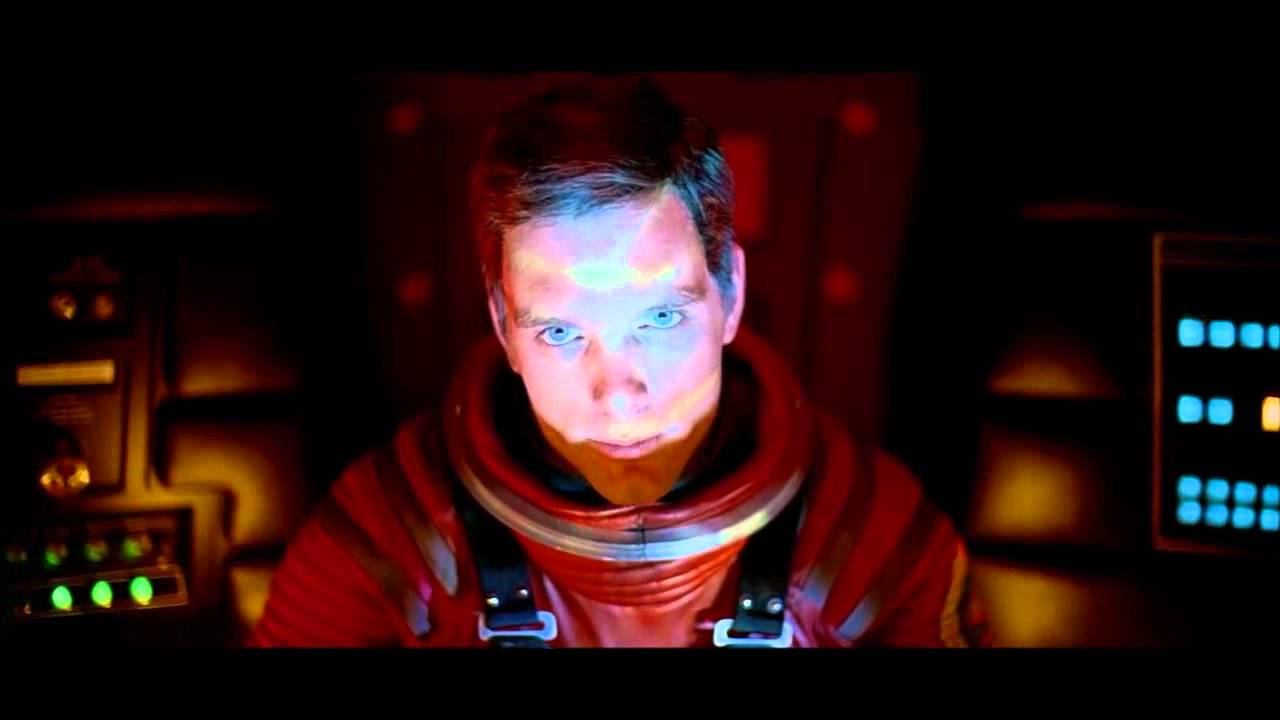
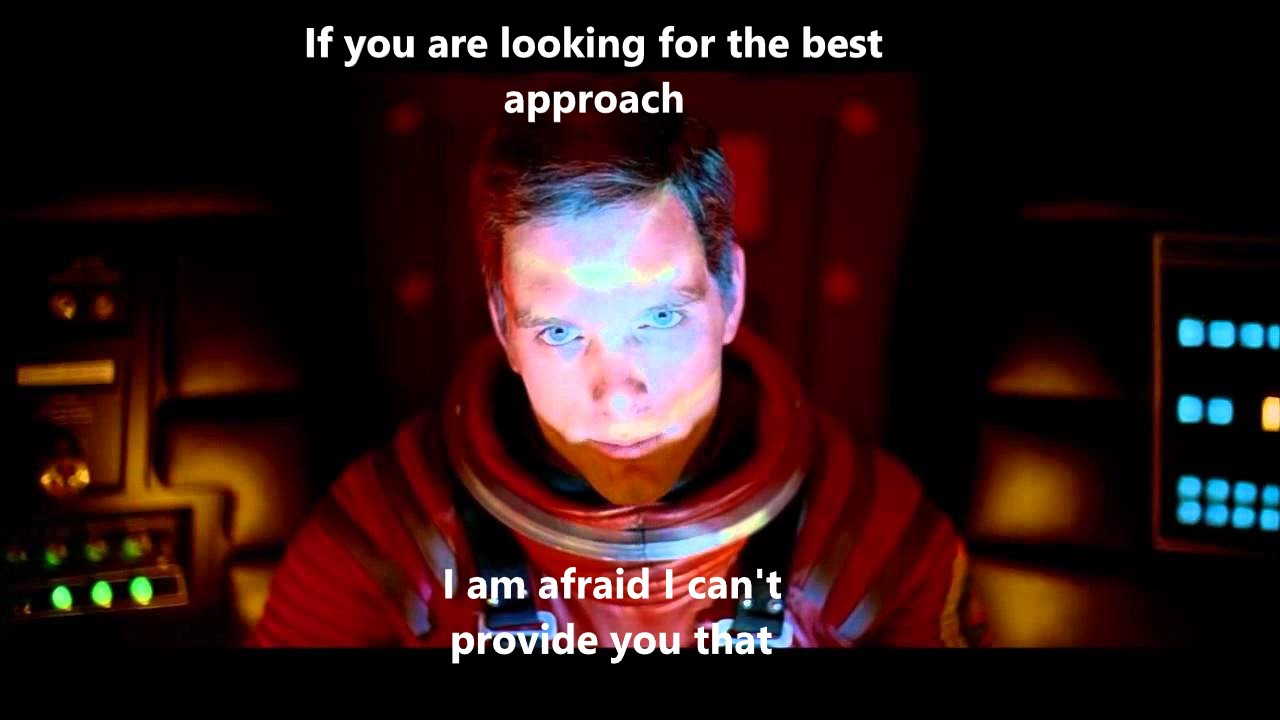
Update documentation

Changed region(s): [[0.3438, 0.7944, 0.625, 0.9167], [0.2188, 0.0306, 0.6875, 0.0917], [0.375, 0.1222, 0.5312, 0.1833]]

diff --git a/searchindex.js b/searchindex.js
@@ -1,1 +1,1 @@
-Search.setIndex({docnames:["book/book","book/setup","book/steps","content","intro","markdown","markdown-notebooks","notebooks","package/overview","package/setup"],envversion:{"sphinx.domains.c":2,"sphinx.domains.changeset":1,"sphinx.domains.citation":1,"sphinx.domains.cpp":4,"sphinx.domains.index":1,"sphinx.domains.javascript":2,"sphinx.domains.math":2,"sphinx.domains.python":3,"sphinx.domains.rst":2,"sphinx.domains.std":2,"sphinx.ext.intersphinx":1,"sphinxcontrib.bibtex":9,sphinx:56},filenames:["book/book.rst","book/setup.rst","book/steps.rst","content.md","intro.rst","markdown.md","markdown-notebooks.md","notebooks.ipynb","package/overview.rst","package/setup.rst"],objects:{},objnames:{},objtypes:{},terms:{"0":7,"1":[7,8],"10":7,"100":7,"19680801":7,"2":[6,7,8],"2014":5,"3":[7,8],"4":[6,7],"5":7,"case":1,"class":8,"default":[1,6,8],"do":[3,5,7],"function":5,"import":[7,8],"public":8,"return":8,"short":3,"true":8,"while":4,A:8,As:7,But:7,For:[1,5,7],If:[6,8],In:[1,5,7],It:[1,4,5],No:7,Or:8,That:6,The:[1,5,6,8],There:[3,7,8],To:[1,8],With:6,about:[4,5,6,7],accept:5,add_:7,afraid:4,align:7,all:[4,5,6],allow:5,also:[1,4,5,6,7,8],alwai:8,am:4,an:[1,4,5],ani:6,answer:1,apart:8,approach:4,ar:[3,4,5,6,8],arg:8,argument:8,arrai:7,assign:8,associ:8,auditori:5,audreyr:8,australia:5,avail:8,ax:7,base:6,bash:8,been:4,begin:7,being:5,best:4,bib:5,bibliographi:5,bibtex:5,block:[6,8],book:[2,4,5,6,7],both:5,box:5,brian:5,brisban:5,build:5,built:6,call:[5,7],callback:8,can:[1,4,5,6,7,8],case_sensit:8,categori:8,cell:7,certain:8,challeng:4,chang:1,channel:1,check:7,choic:8,christoph:5,cite:5,claim:4,click:[4,8],clickyaml:8,clone:8,cm:7,cmap:7,code:[5,6],cognit:5,cold:7,color:7,com:8,command:[1,4,6],command_custom:8,command_default:8,commonmark:5,complex:8,complexcommand:8,conda:2,confer:5,content:[5,6],convert:6,cookiecutt:[1,8],coolwarm:7,copi:8,cortex:5,cover:[3,4],creat:[4,7,8],cstm_clbk:8,curl:8,custom:8,custom_lin:7,cycler:7,d:6,data:[7,8],de:5,decid:1,defin:[6,8],depend:[1,5],detail:6,dev:4,develop:[1,4],differ:5,direct:6,displai:6,document:[1,5,6,7,8],dollar:7,don:8,download:8,dure:4,e:8,each:[4,8],ecosystem:5,effort:4,either:8,email:8,emb:7,end:7,env:1,environ:4,envvar:8,escap:7,etc:7,everi:4,evid:5,exampl:[5,7,8],execut:6,explicit:1,extens:5,f:1,face:4,fals:8,few:3,fig:7,figsiz:7,file:[4,6],fix:7,flavor:5,follow:[1,5,6],forg:1,free:8,from:[1,7],frontier:5,get:[5,6],get_command:8,ghp:1,git:8,github:8,guid:[7,8],ha:[4,8],have:[6,8],hdhpk14:5,heer:5,help:[5,8],henc:1,here:[5,7],holdgraf:5,holdgraf_evidence_2014:5,home:8,hot:7,hous:8,how:[3,6],html:7,http:8,human:5,i:[1,4],id:8,ii:7,imag:7,import2:1,includ:[1,6,7],inform:[1,6,7],init:6,initi:0,inlin:5,input:[5,8],insert:5,instal:[1,2],instead:[1,4],instruct:[1,6],interact:7,intern:5,io:8,ion:7,ipynb:5,journei:4,jupyt:[1,2,5,6,7],jupyterbook:5,jupytext:6,just:5,keep:7,kernel:6,kind:5,knight:5,know:8,kwarg:8,la_:7,lambda:8,languag:5,last:7,legend:7,let:[1,6],licens:8,like:[4,5,6],line2d:7,line:[5,6,7],link:8,linspac:7,list:[1,8],ll:5,logspac:7,look:4,lot:[5,7],lw:7,mail:8,make:[1,7],makefil:2,mani:[3,5,6],manual:1,markdownfil:6,markedli:5,markup:5,master:8,math:7,matplotlib:7,mbox:7,md:[5,6],mean:7,medium:7,mention:1,method:8,mit:8,modul:[7,8],modulenotfounderror:7,more:[1,6,7],moreov:5,most:[5,7,8],multipl:8,must:5,my_email:8,mynewbook:1,n:[5,7],name:[1,7,8],need:[1,6,8],neurosci:5,note:[5,8],notebook:5,novic:4,np:7,numpi:7,obj:8,off:[5,6],ojl:8,onc:8,one:5,opt:8,option:8,org:5,other:6,out:[4,7,8],output:6,overview:5,packag:[1,4,8],page:[5,6],paint:4,param:8,param_decl:8,paramet:8,parse_yaml:8,parsed_yaml:8,paslei:5,pass:8,path:[6,8],path_to_yaml:8,pictur:4,pip:[1,8],plot:7,plt:7,post:7,power:5,predict:5,prefer:8,prefix:1,presenc:6,print:[6,8],process:8,project:[4,8],prompt:1,prop_cycl:7,properli:5,provid:4,prune:1,publish:4,purpos:5,py:8,pypackag:8,pypi:4,pyplot:7,python:8,ramsai:5,randn:7,random:7,rang:7,rcparam:7,read:[4,8],readthedoc:8,recent:[7,8],refer:[1,5,8],regular:5,render:5,repo:8,repositori:8,repres:8,reproduc:7,requir:1,respect:1,rest:6,robert:5,rule:8,run:[1,6,8],s:[4,5,6,7],same:5,sampl:7,script:8,section:3,see:[5,6,7],seed:7,serv:5,set:4,setup:[0,2,8],should:6,show:[5,6],sign:7,similar:5,simpl:5,simplecommand:8,slight:5,small:5,so:[1,3,4,6],softwar:8,solut:4,some:[5,7],span:5,special:5,specif:[1,5],specifi:8,sphinx:5,stand:5,start:[5,6],starter:5,state:7,step:[1,4],store:5,structur:[1,5,8],subplot:7,support:6,suppos:1,sure:7,syntax:5,t:[4,5,7,8],tag:8,take:8,talk:4,tarbal:8,templat:8,termin:[1,8],test:4,tex:7,text:[5,6],thei:5,thi:[1,3,4,5,6,7,8],thing:6,those:5,three:8,through:8,tip:3,tool:5,top:6,topic:4,touch:4,traceback:7,treat:6,two:[5,6,8],type:8,ultim:4,under:1,understand:6,unit:4,up:4,updat:1,upon:4,us:[1,5,6,8],user:8,vandyg:8,variat:5,via:1,wa:[1,8],wai:[3,4,8],want:[7,8],well:7,wendi:5,went:4,when:[5,6],wherea:5,whether:5,which:6,work:[4,7],write:[3,5,6],written:[5,6],yaml:4,yaml_data:8,yml:1,you:[4,5,6,7,8],your:[5,6,7,8]},titles:["Creating this book","Setting up the book","Steps","Content in Jupyter Book","clickYaml: A Python Odyssey","Markdown Files","Notebooks with MyST Markdown","Content with notebooks","Overview","&lt;no title&gt;"],titleterms:{A:4,add:6,all:8,an:6,block:7,book:[0,1,3],cell:6,citat:5,clickyaml:4,code:7,command:8,conda:1,content:[3,7],creat:[0,1,6],credit:8,dictionari:8,direct:5,directori:1,environ:1,exampl:6,file:[1,5,8],from:8,get:8,instal:8,jupyt:3,learn:5,markdown:[5,6,7],metadata:6,more:5,myst:[5,6,7],notebook:[6,7],object:8,odyssei:4,output:7,overview:8,project:1,python:4,quickli:6,releas:8,role:5,root:1,sampl:5,set:1,sourc:8,specif:8,stabl:8,step:2,thi:0,up:1,usag:8,what:5,yaml:[1,6,8]}})
+Search.setIndex({docnames:["book/book","book/setup","book/steps","content","intro","markdown","markdown-notebooks","notebooks","package/overview","package/setup"],envversion:{"sphinx.domains.c":2,"sphinx.domains.changeset":1,"sphinx.domains.citation":1,"sphinx.domains.cpp":4,"sphinx.domains.index":1,"sphinx.domains.javascript":2,"sphinx.domains.math":2,"sphinx.domains.python":3,"sphinx.domains.rst":2,"sphinx.domains.std":2,"sphinx.ext.intersphinx":1,"sphinxcontrib.bibtex":9,sphinx:56},filenames:["book/book.rst","book/setup.rst","book/steps.rst","content.md","intro.rst","markdown.md","markdown-notebooks.md","notebooks.ipynb","package/overview.rst","package/setup.rst"],objects:{},objnames:{},objtypes:{},terms:{"0":7,"1":[7,8],"10":7,"100":7,"19680801":7,"2":[6,7,8],"2014":5,"3":[7,8],"4":[6,7],"5":7,"case":1,"class":8,"default":[1,6,8],"do":[3,5,7],"function":5,"import":[7,8],"public":8,"return":8,"short":3,"true":8,"while":4,A:8,As:7,But:7,For:[1,5,7],If:[6,8],In:[1,5,7],It:[1,4,5],No:7,Or:8,That:6,The:[1,5,6,8],There:[3,7,8],To:[1,8],With:6,about:[4,5,6,7],accept:5,add_:7,align:7,all:[4,5,6],allow:5,also:[1,4,5,6,7,8],alwai:8,an:[1,4,5],ani:6,answer:1,apart:8,ar:[3,5,6,8],arg:8,argument:8,arrai:7,assign:8,associ:8,auditori:5,audreyr:8,australia:5,avail:8,ax:7,base:6,bash:8,been:4,begin:7,being:5,best:4,bib:5,bibliographi:5,bibtex:5,block:[6,8],book:[2,4,5,6,7],both:5,box:5,brian:5,brisban:5,build:5,built:6,call:[5,7],callback:8,can:[1,5,6,7,8],case_sensit:8,categori:8,cell:7,certain:8,challeng:4,chang:1,channel:1,check:7,choic:8,christoph:5,cite:5,claim:4,click:[4,8],clickyaml:8,clone:8,cm:7,cmap:7,code:[5,6],cognit:5,cold:7,color:7,com:8,command:[1,4,6],command_custom:8,command_default:8,commonmark:5,complex:8,complexcommand:8,conda:2,confer:5,content:[5,6],convert:6,cookiecutt:[1,8],coolwarm:7,copi:8,cortex:5,cover:[3,4],creat:[4,7,8],cstm_clbk:8,curl:8,custom:8,custom_lin:7,cycler:7,d:6,data:[7,8],de:5,decid:1,defin:[6,8],depend:[1,5],detail:6,dev:4,develop:[1,4],differ:5,direct:6,displai:6,document:[1,5,6,7,8],dollar:7,don:8,download:8,dure:4,e:8,each:[4,8],ecosystem:5,effort:4,either:8,email:8,emb:7,end:7,env:1,environ:4,envvar:8,escap:7,etc:7,everi:4,evid:5,exampl:[5,7,8],execut:6,explicit:1,extens:5,f:1,face:4,fals:8,few:3,fig:7,figsiz:7,file:[4,6],fix:7,flavor:5,follow:[1,5,6],forg:1,free:8,from:[1,7],frontier:5,get:[5,6],get_command:8,ghp:1,git:8,github:8,guid:[7,8],ha:[4,8],have:[6,8],hdhpk14:5,heer:5,help:[5,8],henc:1,here:[5,7],holdgraf:5,holdgraf_evidence_2014:5,home:8,hot:7,hous:8,how:[3,6],html:7,http:8,human:5,i:1,id:8,ii:7,imag:7,import2:1,includ:[1,6,7],inform:[1,6,7],init:6,initi:0,inlin:5,input:[5,8],insert:5,instal:[1,2],instead:[1,4],instruct:[1,6],interact:7,intern:5,io:8,ion:7,ipynb:5,journei:4,jupyt:[1,2,5,6,7],jupyterbook:5,jupytext:6,just:5,keep:7,kernel:6,kind:5,knight:5,know:8,kwarg:8,la_:7,lambda:8,languag:5,last:7,legend:7,let:[1,6],licens:8,like:[4,5,6],line2d:7,line:[5,6,7],link:8,linspac:7,list:[1,8],ll:5,logspac:7,lot:[5,7],lw:7,mail:8,make:[1,7],makefil:2,mani:[3,5,6],manual:1,markdownfil:6,markedli:5,markup:5,master:8,math:7,matplotlib:7,mbox:7,md:[5,6],mean:7,medium:7,mention:1,method:8,mit:8,modul:[7,8],modulenotfounderror:7,more:[1,6,7],moreov:5,most:[5,7,8],multipl:8,must:5,my_email:8,mynewbook:1,n:[5,7],name:[1,7,8],need:[1,6,8],neurosci:5,note:[5,8],notebook:5,novic:4,np:7,numpi:7,obj:8,off:[5,6],ojl:8,onc:8,one:5,opt:8,option:8,org:5,other:6,out:[4,7,8],output:6,overview:5,packag:[1,4,8],page:[5,6],paint:4,param:8,param_decl:8,paramet:8,parse_yaml:8,parsed_yaml:8,paslei:5,pass:8,path:[6,8],path_to_yaml:8,pictur:4,pip:[1,8],plot:7,plt:7,post:7,power:5,predict:5,prefer:8,prefix:1,presenc:6,print:[6,8],process:8,project:[4,8],prompt:1,prop_cycl:7,properli:5,provid:4,prune:1,publish:4,purpos:5,py:8,pypackag:8,pypi:4,pyplot:7,python:8,ramsai:5,randn:7,random:7,rang:7,rcparam:7,read:[4,8],readthedoc:8,recent:[7,8],refer:[1,5,8],regular:5,render:5,repo:8,repositori:8,repres:8,reproduc:7,requir:1,respect:1,rest:6,robert:5,rule:8,run:[1,6,8],s:[4,5,6,7],same:5,sampl:7,script:8,section:3,see:[5,6,7],seed:7,serv:5,set:4,setup:[0,2,8],should:6,show:[5,6],sign:7,similar:5,simpl:5,simplecommand:8,slight:5,small:5,so:[1,3,6],softwar:8,solut:4,some:[5,7],span:5,special:5,specif:[1,5],specifi:8,sphinx:5,stand:5,start:[5,6],starter:5,state:7,step:[1,4],store:5,structur:[1,5,8],subplot:7,support:6,suppos:1,sure:7,syntax:5,t:[5,7,8],tag:8,take:8,talk:4,tarbal:8,templat:8,termin:[1,8],test:4,tex:7,text:[5,6],thei:5,thi:[1,3,4,5,6,7,8],thing:6,those:5,three:8,through:8,tip:3,tool:5,top:6,topic:4,touch:4,traceback:7,treat:6,two:[5,6,8],type:8,ultim:4,under:1,understand:6,unit:4,up:4,updat:1,upon:4,us:[1,5,6,8],user:8,vandyg:8,variat:5,via:1,wa:[1,8],wai:[3,4,8],want:[7,8],well:7,wendi:5,went:4,when:[5,6],wherea:5,whether:5,which:6,work:[4,7],write:[3,5,6],written:[5,6],yaml:4,yaml_data:8,yml:1,you:[5,6,7,8],your:[5,6,7,8]},titles:["Creating this book","Setting up the book","Steps","Content in Jupyter Book","clickYaml: A Python Odyssey","Markdown Files","Notebooks with MyST Markdown","Content with notebooks","Overview","&lt;no title&gt;"],titleterms:{A:4,add:6,all:8,an:6,block:7,book:[0,1,3],cell:6,citat:5,clickyaml:4,code:7,command:8,conda:1,content:[3,7],creat:[0,1,6],credit:8,dictionari:8,direct:5,directori:1,environ:1,exampl:6,file:[1,5,8],from:8,get:8,instal:8,jupyt:3,learn:5,markdown:[5,6,7],metadata:6,more:5,myst:[5,6,7],notebook:[6,7],object:8,odyssei:4,output:7,overview:8,project:1,python:4,quickli:6,releas:8,role:5,root:1,sampl:5,set:1,sourc:8,specif:8,stabl:8,step:2,thi:0,up:1,usag:8,what:5,yaml:[1,6,8]}})

diff --git a/intro.html b/intro.html
@@ -367,7 +367,6 @@ also touch upon the steps went into creating this book.</p>
 claims to provide the best solution; instead it paints the picture of the
 dev’s journey and all the effort that went into the project during the
 development.</p>
-<p>So if you are looking for the <em>best approach</em> <strong>I am afraid I can’t provide you that</strong>.</p>
 <img alt="_images/2001.jpg" src="_images/2001.jpg" />
 <div class="toctree-wrapper compound">
 </div>

diff --git a/_sources/intro.rst b/_sources/intro.rst
@@ -15,8 +15,6 @@ claims to provide the best solution; instead it paints the picture of the
 dev's journey and all the effort that went into the project during the 
 development.
 
-So if you are looking for the *best approach* **I am afraid I can't provide you that**.
-
 .. image:: 2001.jpg
 
 .. _clickYaml: https://github.com/vandyG/clickyaml
